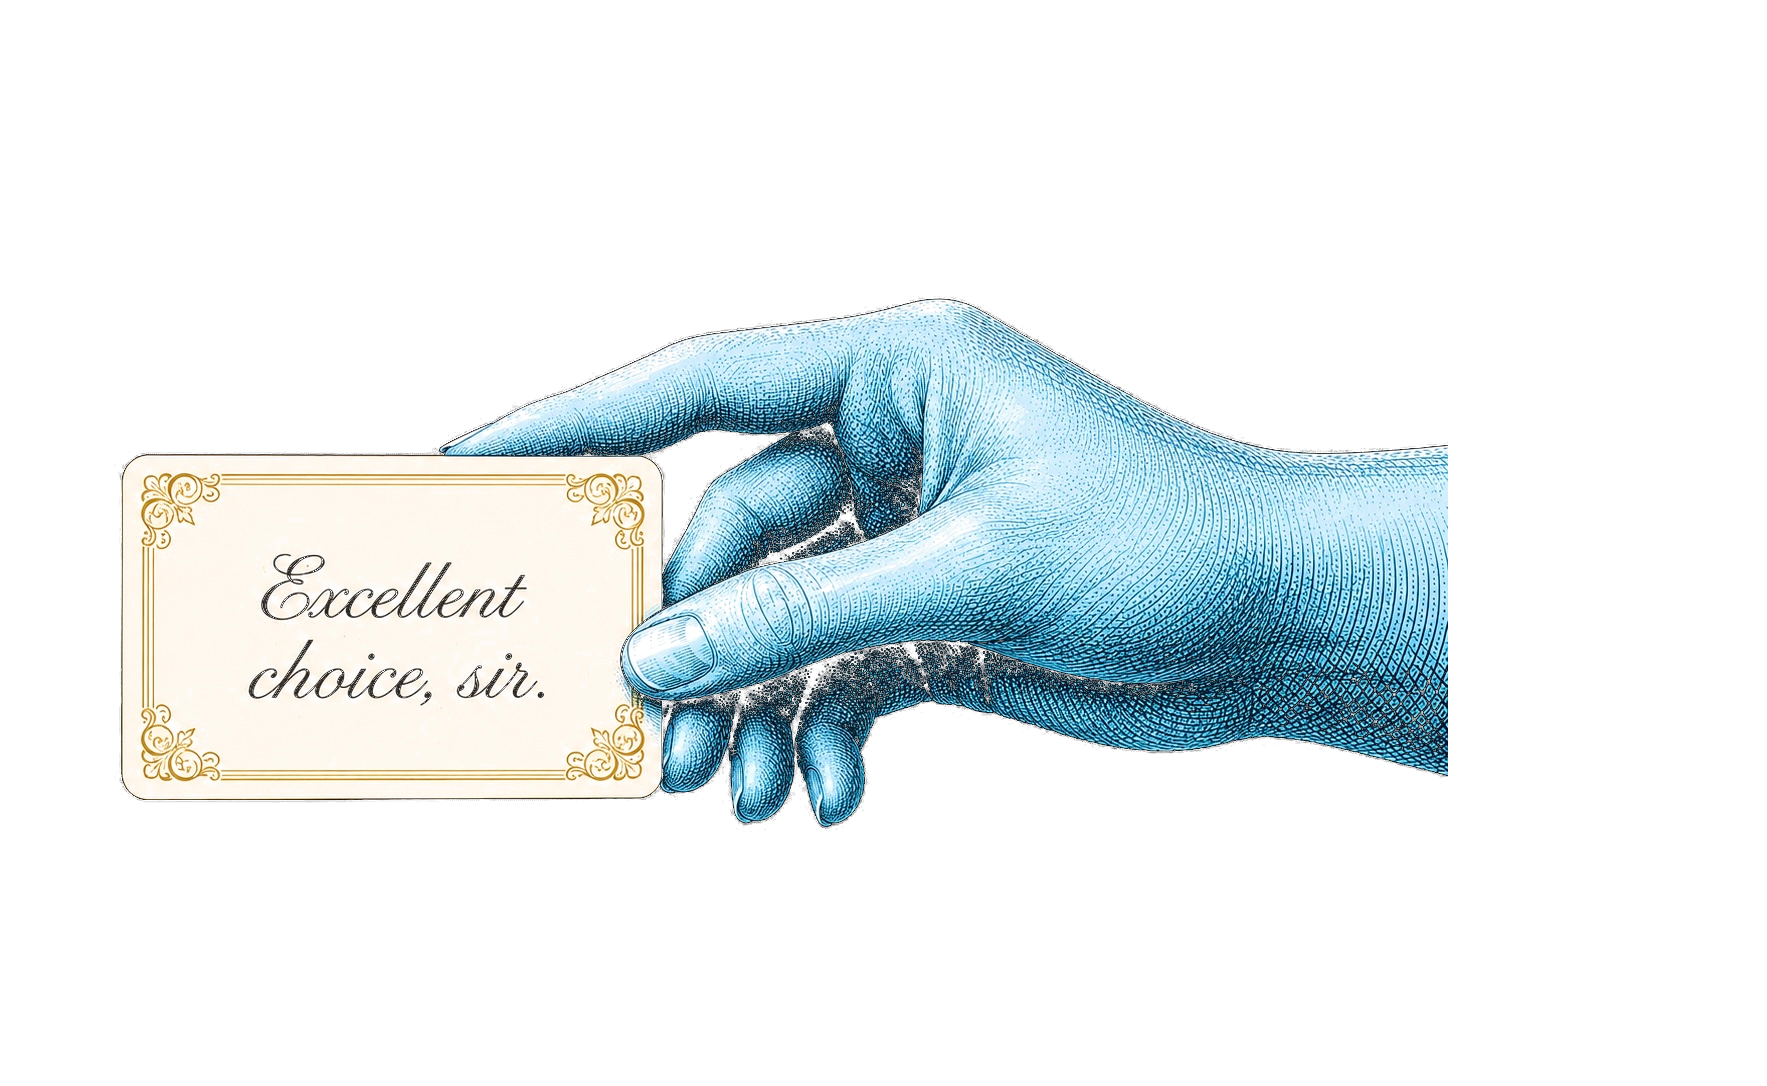
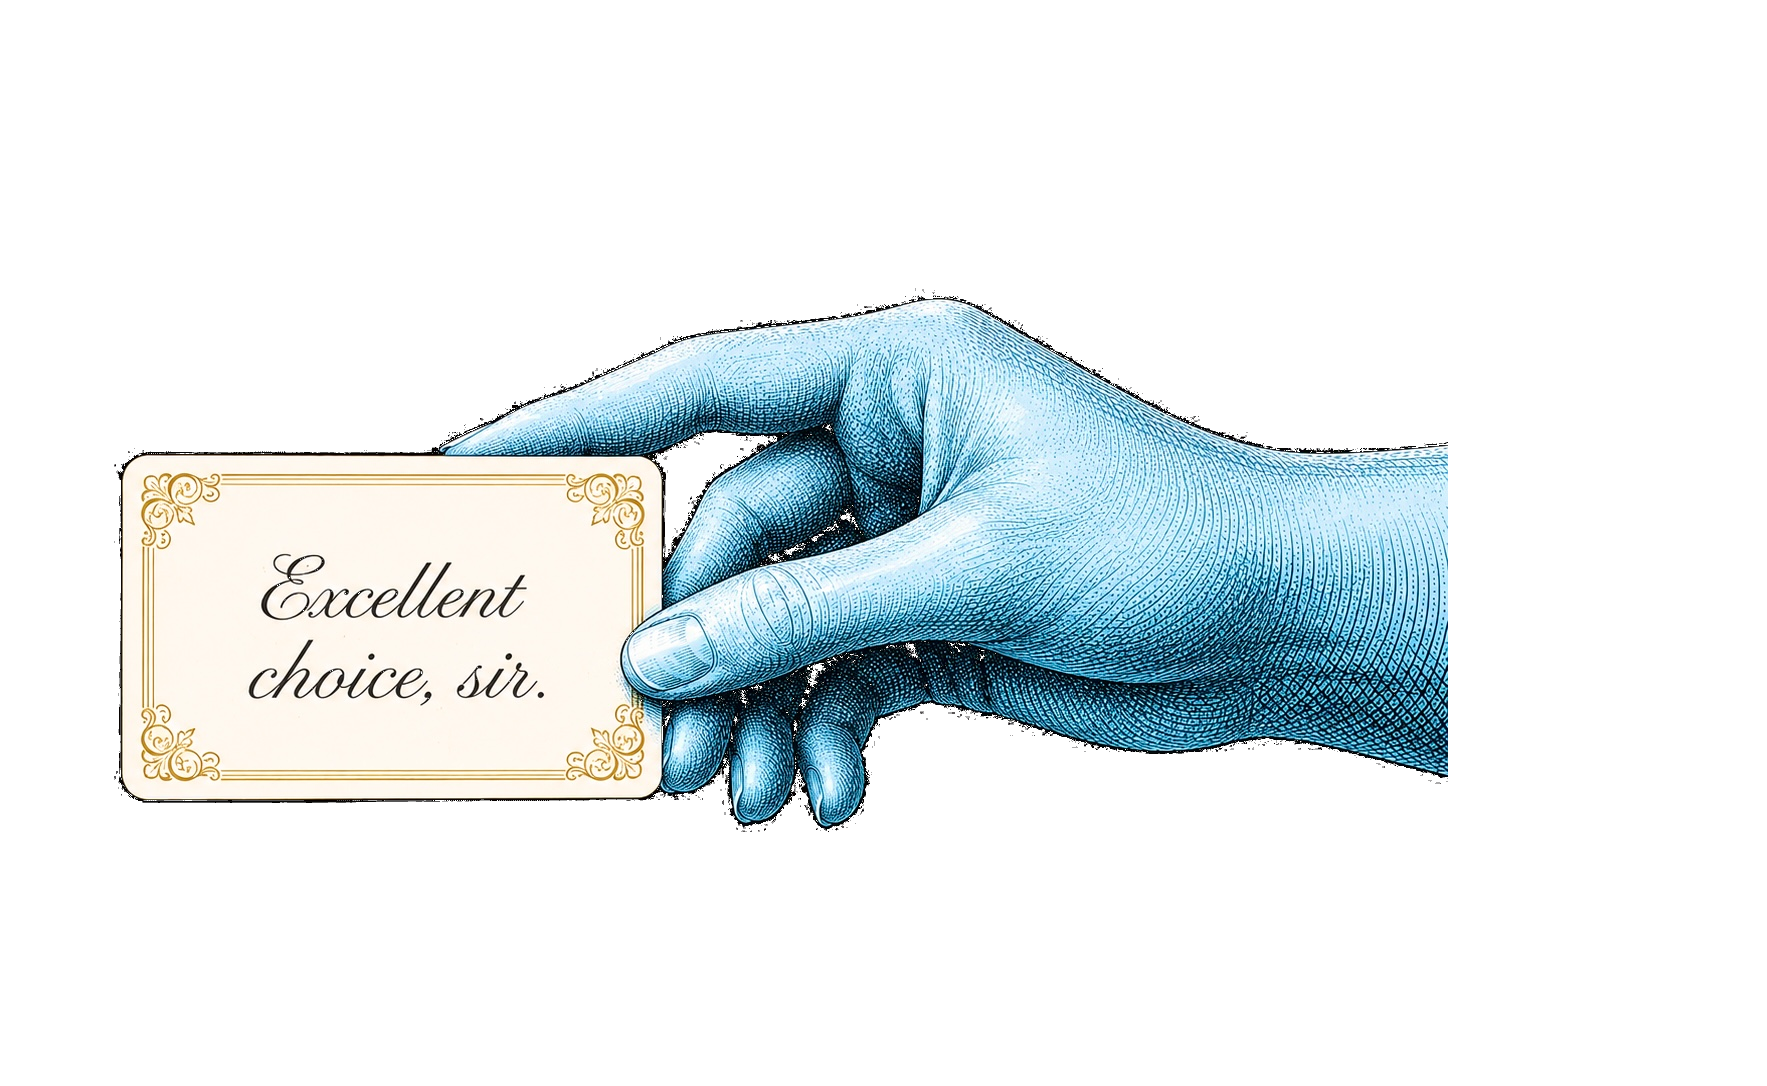
Fix dirty hand texture, widen portal, add rippling liquid surface
Re-keyed all pose art with a tight threshold (only pure black/white is
removed) so the hand's dark engraving lines are no longer punched out —
fixing the dirty, holey look.

Widened the portal: padding from 1.4% to 5%, thin-axis ratio from 0.42
to 0.6, so the cream opening has room around what passes through.

Added a rippling liquid surface to the portal: three concentric ripple
rings that expand and fade on a staggered cycle, plus an SVG
feTurbulence + feDisplacementMap filter on the portal core for a living
liquid texture instead of a flat ellipse.

diff --git a/resources/js/xen-rnd/components/XenPortalHand.vue b/resources/js/xen-rnd/components/XenPortalHand.vue
@@ -41,9 +41,9 @@ const FEED_MS = 820;
 const SHIVER_MS = 380;
 const PRINTER_STEPS = 14;
 /** Thin axis is this fraction of the long axis (ellipse aspect). */
-const THIN_RATIO = 0.42;
+const THIN_RATIO = 0.6;
 /** Extra cream padding around the silhouette, in % of frame. */
-const PAD = 1.4;
+const PAD = 5;
 const WAVE_AMP = 0.016;
 const WAVE_FREQ = 3.2;
 const WAVE_STEPS = 28;
@@ -99,6 +99,10 @@ const wavyPath = computed(() => {
 const clipStyle = computed(() => ({
     clipPath: `url(#${clipId.value})`,
     WebkitClipPath: `url(#${clipId.value})`,
+}));
+
+const portalCoreStyle = computed(() => ({
+    filter: `url(#${clipId.value}-ripple)`,
 }));
 
 const handOrigin = computed(() => {
@@ -327,10 +331,17 @@ defineExpose({ replay: play });
                 <clipPath :id="clipId" clipPathUnits="objectBoundingBox">
                     <path :d="wavyPath" />
                 </clipPath>
+                <filter :id="`${clipId}-ripple`" x="-20%" y="-20%" width="140%" height="140%">
+                    <feTurbulence type="fractalNoise" baseFrequency="0.012 0.03" numOctaves="2" seed="3" result="noise" />
+                    <feDisplacementMap in="SourceGraphic" in2="noise" scale="6" xChannelSelector="R" yChannelSelector="G" />
+                </filter>
             </svg>
 
             <div class="xen__portal" :style="portalStyle" aria-hidden="true">
-                <span class="xen__portal-core" />
+                <span class="xen__portal-core" :style="portalCoreStyle" />
+                <span class="xen__ripple xen__ripple--1" />
+                <span class="xen__ripple xen__ripple--2" />
+                <span class="xen__ripple xen__ripple--3" />
                 <span class="xen__portal-contact" />
             </div>
 
@@ -407,6 +418,35 @@ defineExpose({ replay: play });
         inset 0 0 0 1px rgba(255, 248, 235, 0.4),
         0 2px 8px rgba(0, 0, 0, 0.42),
         0 0 22px rgba(243, 235, 224, 0.18);
+}
+
+.xen__ripple {
+    position: absolute;
+    border-radius: 50%;
+    border: 1.5px solid rgba(255, 250, 243, 0.55);
+    pointer-events: none;
+    opacity: 0;
+    animation: xen-ripple 2.8s ease-out infinite;
+}
+
+.xen__ripple--1 { animation-delay: 0s; }
+.xen__ripple--2 { animation-delay: 0.93s; }
+.xen__ripple--3 { animation-delay: 1.87s; }
+
+@keyframes xen-ripple {
+    0% {
+        inset: 38% 38%;
+        opacity: 0;
+        border-width: 2.5px;
+    }
+    15% {
+        opacity: 0.7;
+    }
+    100% {
+        inset: -4% -4%;
+        opacity: 0;
+        border-width: 0.5px;
+    }
 }
 
 .xen__portal-contact {
@@ -493,6 +533,10 @@ defineExpose({ replay: play });
 @media (prefers-reduced-motion: reduce) {
     .xen__hand--shiver {
         animation: none;
+    }
+    .xen__ripple {
+        animation: none;
+        opacity: 0;
     }
 }
 </style>
